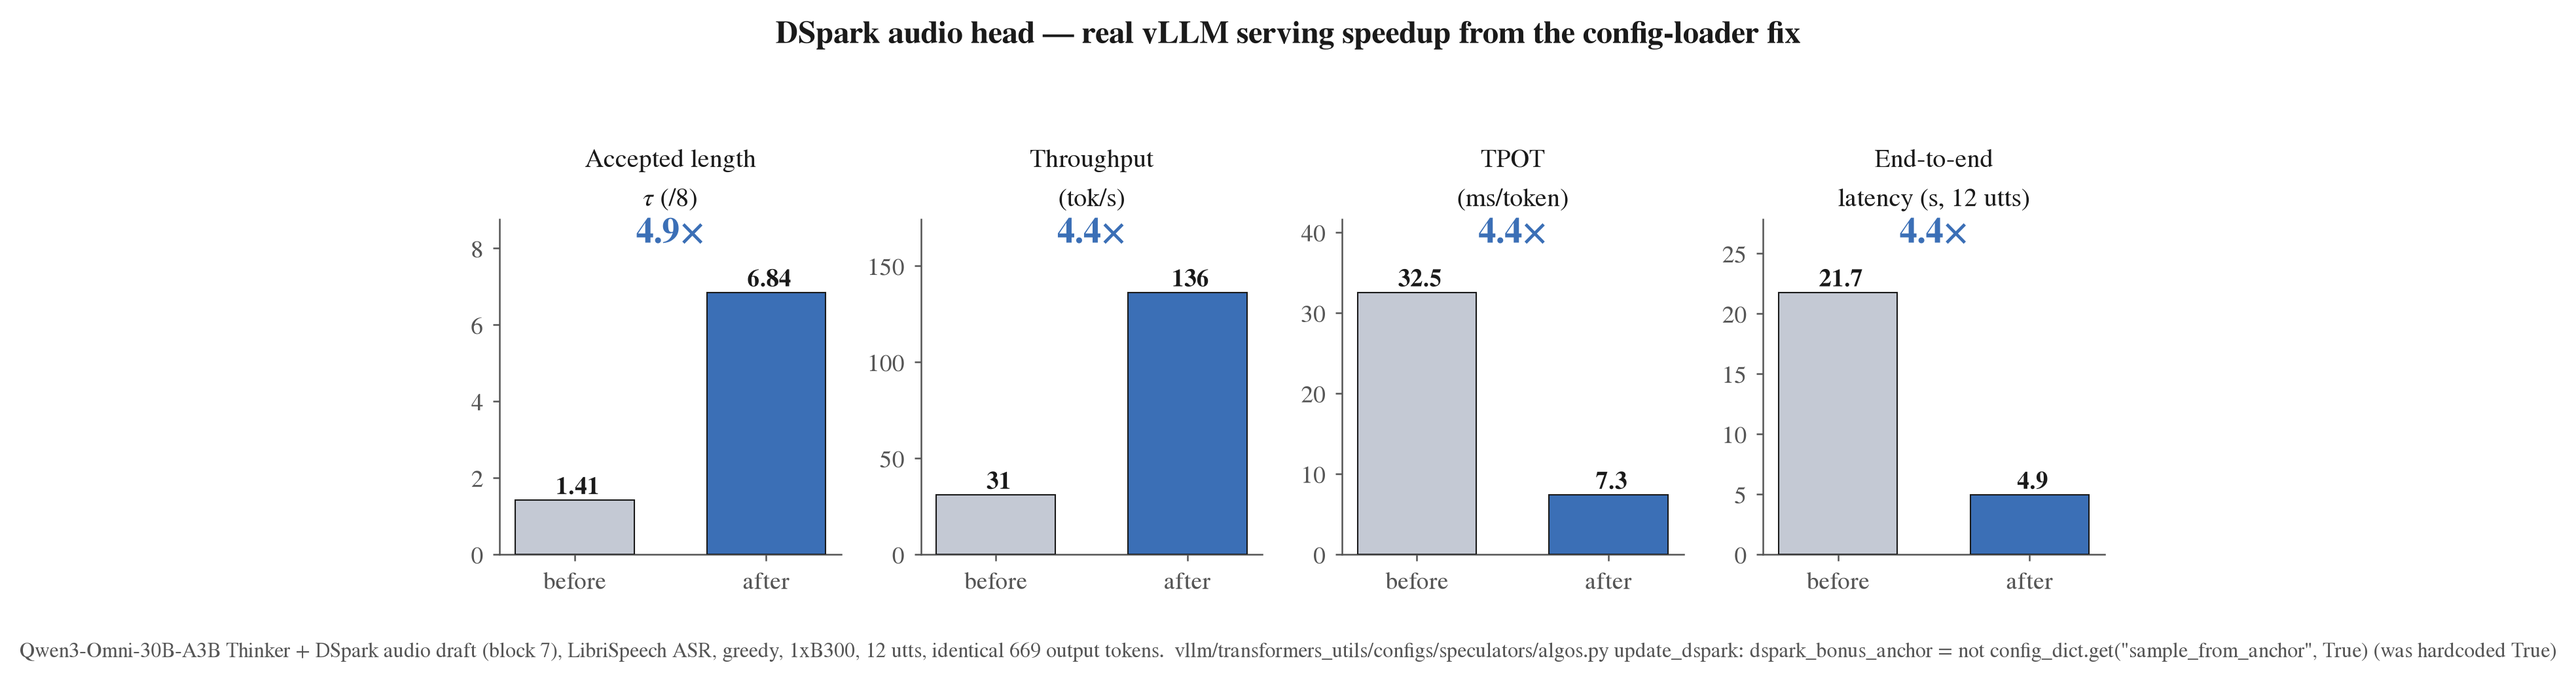
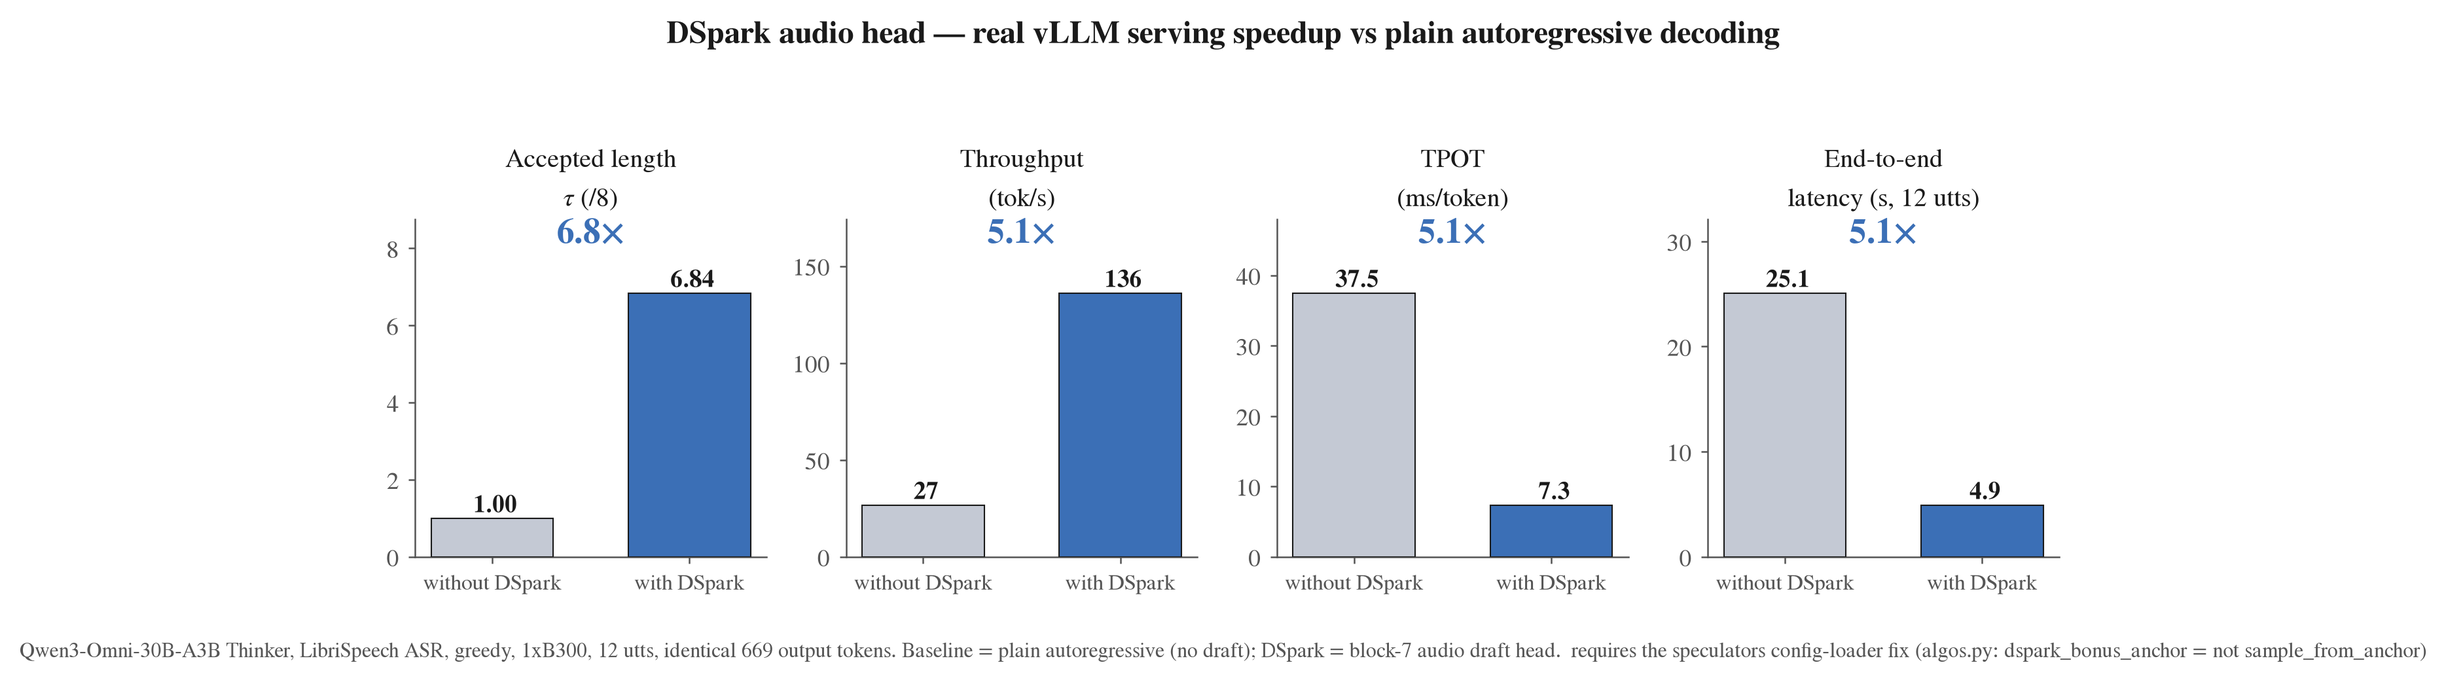
DSpark serving speedup figure: compare vs plain autoregressive (no draft), 5.1x
Replaces the before/after-fix comparison with the deployment-relevant one:
with vs without the DSpark draft head. accept_len 1.0->6.84, throughput
26.7->136 tok/s, TPOT 37.5->7.3 ms, 5.1x end-to-end (Qwen3-Omni Thinker,
LibriSpeech ASR, 1xB300, identical output). Needs the algos.py config-loader fix.

diff --git a/scripts/plot_dspark_serving_speedup.py b/scripts/plot_dspark_serving_speedup.py
@@ -1,13 +1,12 @@
-"""DSpark audio head — real vLLM serving speedup from the config-loader fix.
+"""DSpark audio head — real vLLM serving speedup vs plain autoregressive decoding.
 
-Before/after the fix, measured end-to-end against a live vLLM server (Qwen3-Omni
-Thinker + DSpark audio draft) on LibriSpeech ASR, greedy, identical output. Data
-in dspark_serving_speedup_data.json. Emits PNG + PDF.
+With vs without the DSpark audio draft head, measured end-to-end against a live
+vLLM server (Qwen3-Omni Thinker) on LibriSpeech ASR, greedy, identical output.
+Data in dspark_serving_speedup_data.json. Emits PNG + PDF.
 
-Root cause: vllm/transformers_utils/configs/speculators/algos.py hardcoded the
-1+N fill-in block layout (dspark_bonus_anchor=True), ignoring the checkpoint's
-sample_from_anchor. That shifts the draft block by one position, collapsing
-acceptance. Fix: dspark_bonus_anchor = not sample_from_anchor.
+The draft head only delivers this once the speculators config-loader honors the
+checkpoint's sample_from_anchor layout (algos.py was hardcoding dspark_bonus_anchor
+=True, forcing the 1+N block and shifting the draft by one position).
 
 Run: python scripts/plot_dspark_serving_speedup.py
 """
@@ -38,8 +37,10 @@ metrics = [
     ("End-to-end\nlatency (s, 12 utts)", bk["total_latency_s"], fx["total_latency_s"], "{:.1f}", True),
 ]
 
-fig, axes = plt.subplots(1, 4, figsize=(8.6, 2.9))
-fig.suptitle("DSpark audio head — real vLLM serving speedup from the config-loader fix",
+lbl_b = d.get("before_label", "before")
+lbl_a = d.get("after_label", "after")
+fig, axes = plt.subplots(1, 4, figsize=(8.8, 2.9))
+fig.suptitle("DSpark audio head — real vLLM serving speedup vs plain autoregressive decoding",
              fontsize=11.5, fontweight="bold", color=INK, y=1.06)
 for ax, (name, vb, vf, fmt, lower_better) in zip(axes, metrics):
     bars = ax.bar([0, 1], [vb, vf], width=0.62, color=[C_bad, C_good],
@@ -49,7 +50,7 @@ for ax, (name, vb, vf, fmt, lower_better) in zip(axes, metrics):
     for s in ("left", "bottom"):
         ax.spines[s].set_color(MUTED)
     ax.tick_params(colors=MUTED, length=2.5, width=0.6)
-    ax.set_xticks([0, 1]); ax.set_xticklabels(["before", "after"])
+    ax.set_xticks([0, 1]); ax.set_xticklabels([lbl_b, lbl_a], fontsize=8)
     ax.set_ylim(0, max(vb, vf) * 1.28)
     for b, v in zip(bars, [vb, vf]):
         ax.text(b.get_x() + b.get_width() / 2, v, " " + fmt.format(v), ha="center",

diff --git a/scripts/dspark_audio_head_results.md b/scripts/dspark_audio_head_results.md
@@ -6,17 +6,20 @@ the **audio (ASR)** input modality, trained in the
 servable in vLLM, no conversion). This is a self-contained profile of the run — dataset,
 pipeline, and training metrics.
 
-> **✅ Deployed speedup confirmed (fixed): ~4.4× faster end-to-end in real vLLM serving.**
-> This head initially accepted only ~1.1 tokens/step in serving (no speedup). We traced it
-> to a **one-line vLLM config-loader bug**: `speculators/algos.py` (`update_dspark`)
-> hardcoded `dspark_bonus_anchor=True`, forcing the *1+N fill-in* block layout and ignoring
-> the checkpoint's `sample_from_anchor` field. The head trains with `sample_from_anchor=True`
-> (anchor-as-first), so the forced layout shifted the draft block by one position and
-> collapsed acceptance. Fix: `dspark_bonus_anchor = not sample_from_anchor`. After the fix,
-> **accepted length 1.41→6.84, throughput 31→136 tok/s, TPOT 32.5→7.3 ms, end-to-end 4.4×**
-> (1×B300, greedy, identical output). Affects all `sample_from_anchor=True` speculators
-> DSpark heads (incl. the image head). An earlier MRoPE hypothesis was disproven — serving
-> feeds correct arange positions; the layout mismatch was the actual cause.
+> **✅ Deployed speedup confirmed: ~5.1× faster than plain autoregressive decoding.**
+> Measured end-to-end in real vLLM serving (Qwen3-Omni Thinker, LibriSpeech ASR, greedy,
+> 1×B300, identical 669-token output), the DSpark audio draft head delivers **accepted
+> length τ 6.84/8, throughput 26.7→136 tok/s, TPOT 37.5→7.3 ms, end-to-end 5.1×** vs the
+> same model without a draft.
+>
+> This required fixing a **one-line vLLM config-loader bug**: `speculators/algos.py`
+> (`update_dspark`) hardcoded `dspark_bonus_anchor=True`, forcing the *1+N fill-in* block
+> layout and ignoring the checkpoint's `sample_from_anchor`. The head trains with
+> `sample_from_anchor=True` (anchor-as-first), so the forced layout shifted the draft block
+> by one position and collapsed serving acceptance to ~1.1 tokens/step (no speedup). Fix:
+> `dspark_bonus_anchor = not sample_from_anchor`. Affects all `sample_from_anchor=True`
+> speculators DSpark heads (incl. the image head). An earlier MRoPE hypothesis was
+> disproven — serving feeds correct arange positions; the layout mismatch was the cause.
 
 ![serving speedup](dspark_serving_speedup.png)
 
